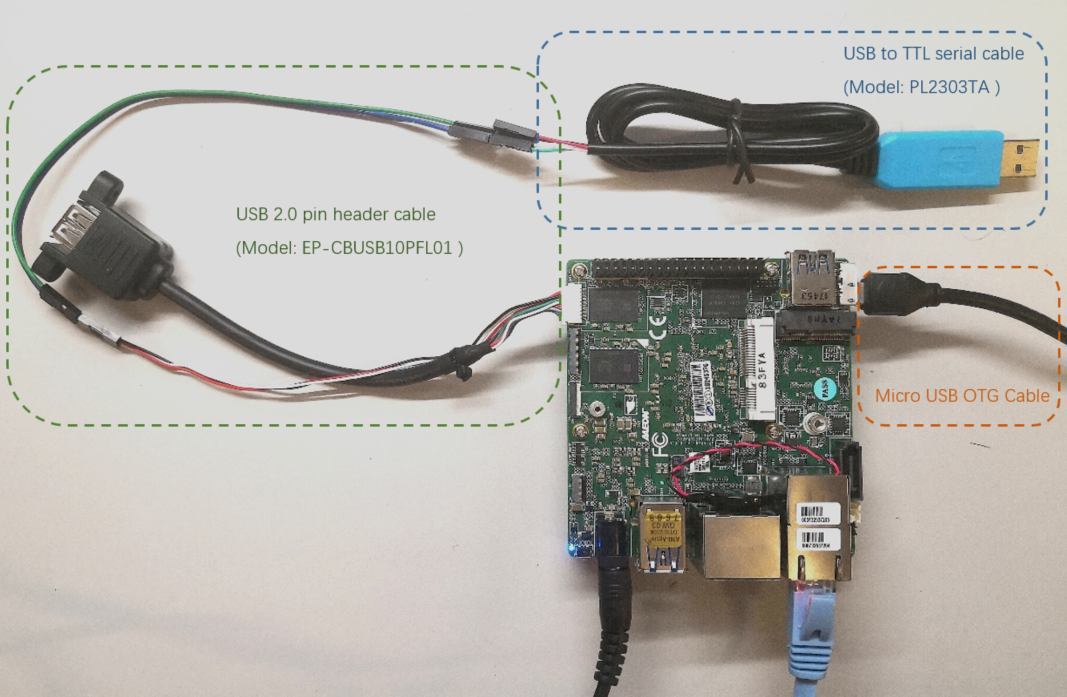
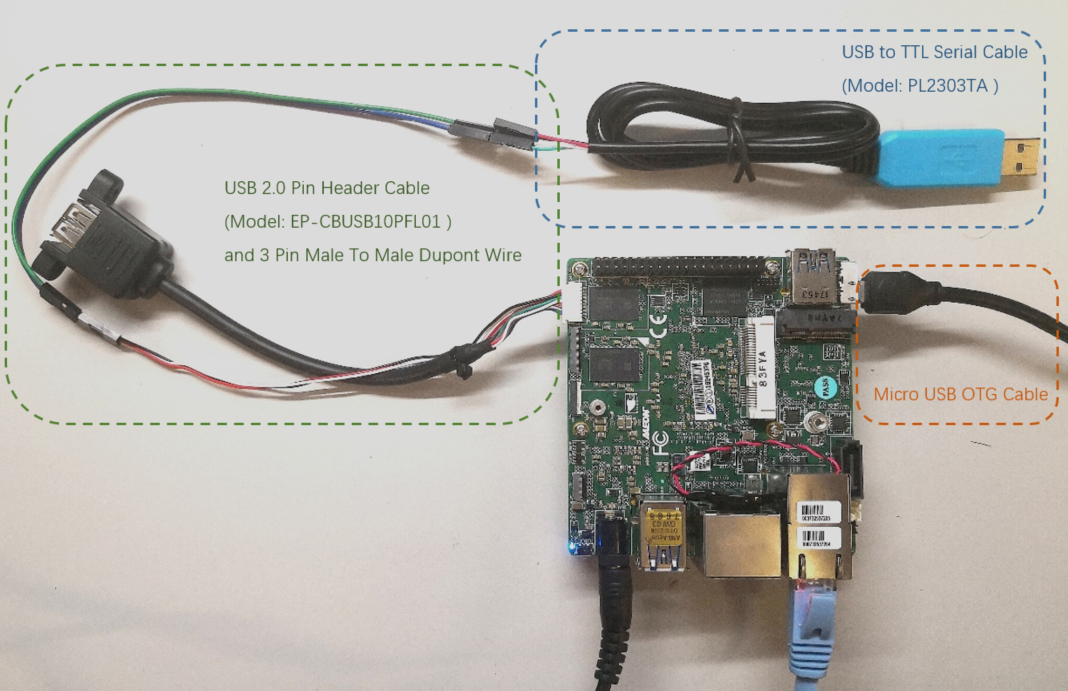
doc: Descriptions about Dupont Wire used added

diff --git a/doc/tutorials/using_sbl_on_up2.rst b/doc/tutorials/using_sbl_on_up2.rst
@@ -29,13 +29,20 @@ Prerequisites
 The following hardware and software are required to use SBL on an UP2 board:
 
 * UP2 kit (`Model N3350 <https://up-shop.org/up-boards/94-up-squared-celeron-duo-core-4gb-memory32gb-emmc.html>`_)
-* `USB 2.0 pin header cable <https://up-shop.org/up-peripherals/110-usb-20-pin-header-cable.html>`_ for debug UART output
-* USB to TTL serial cable (PL2303TA for example) for debug UART output
-* Micro USB OTG cable for flashing
+* `USB 2.0 Pin Header Cable <https://up-shop.org/up-peripherals/110-usb-20-pin-header-cable.html>`_ for debug UART output
+* USB to TTL Serial Cable (PL2303TA for example) for debug UART output
+* 3 Pin Male To Male Jumper Cable Dupont Wire for debug UART output
+* Micro USB OTG Cable for flashing
 * Linux host
 * Internet access
 
 .. image:: images/up2_sbl_connections.png
+   :align: center
+
+The connections between USB to TTL Serial Cable and USB 2.0 Pin Header 
+Cable shoule be:
+
+.. image:: images/up2_sbl_cables_connections.png
    :align: center
 
 Build SBL
